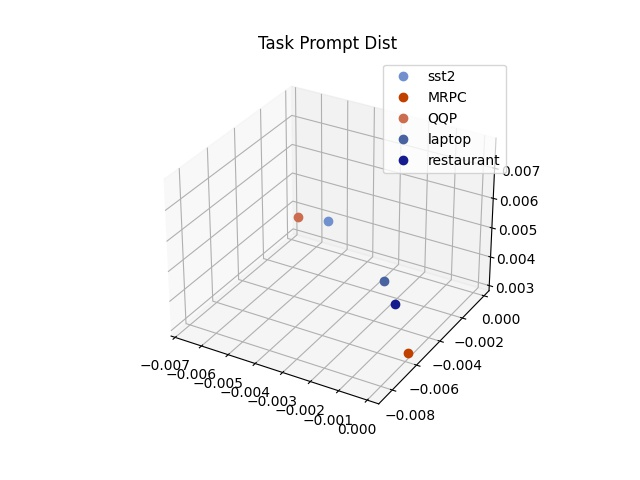
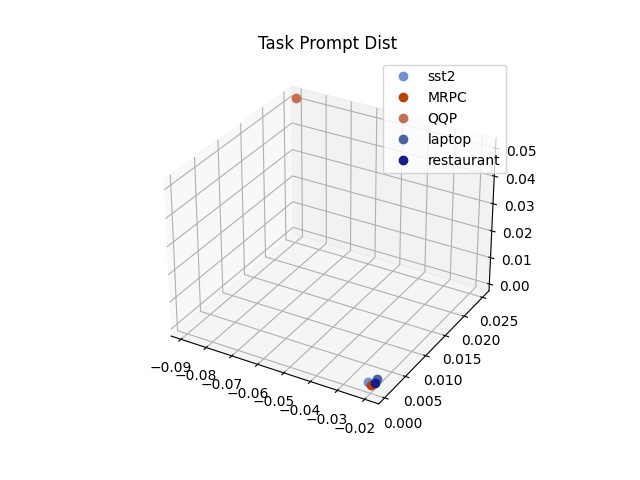
update

Changed region(s): [[0.2188, 0.1875, 0.8438, 0.9062]]

diff --git a/draw_cuda_taskprompt.py b/draw_cuda_taskprompt.py
@@ -95,7 +95,7 @@ def train_AE(input=None, out_features=None):
     # mean-squared error loss
     criterion = nn.MSELoss()
 
-    epochs=10
+    epochs=30
     iterations=100
     model.train()
     for epoch in range(epochs):
